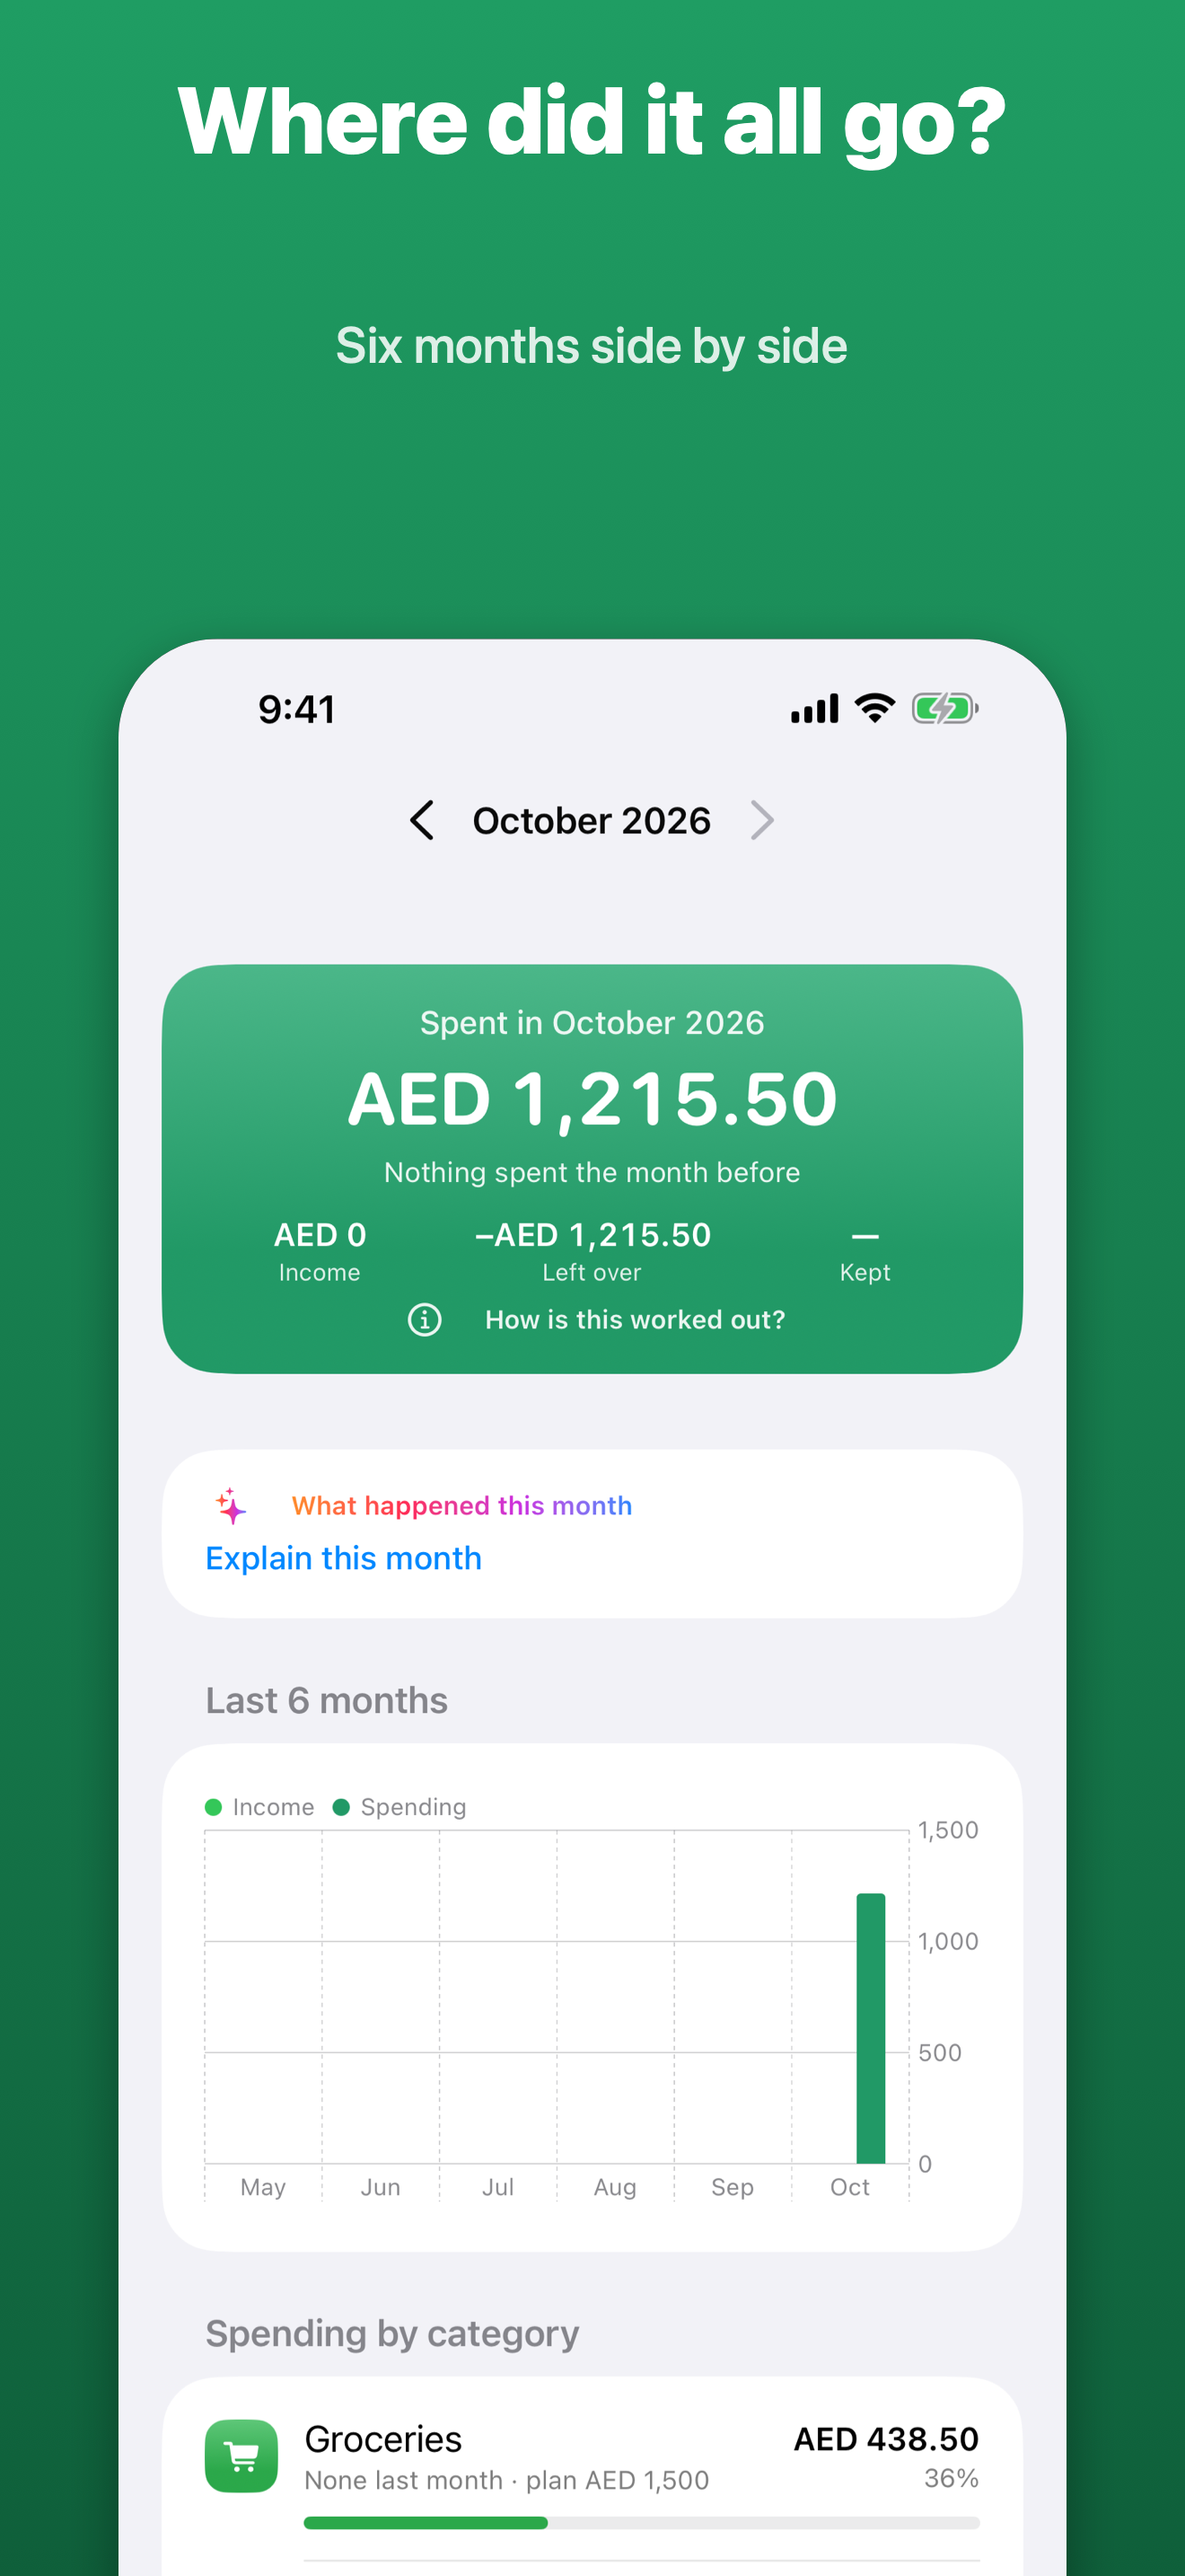
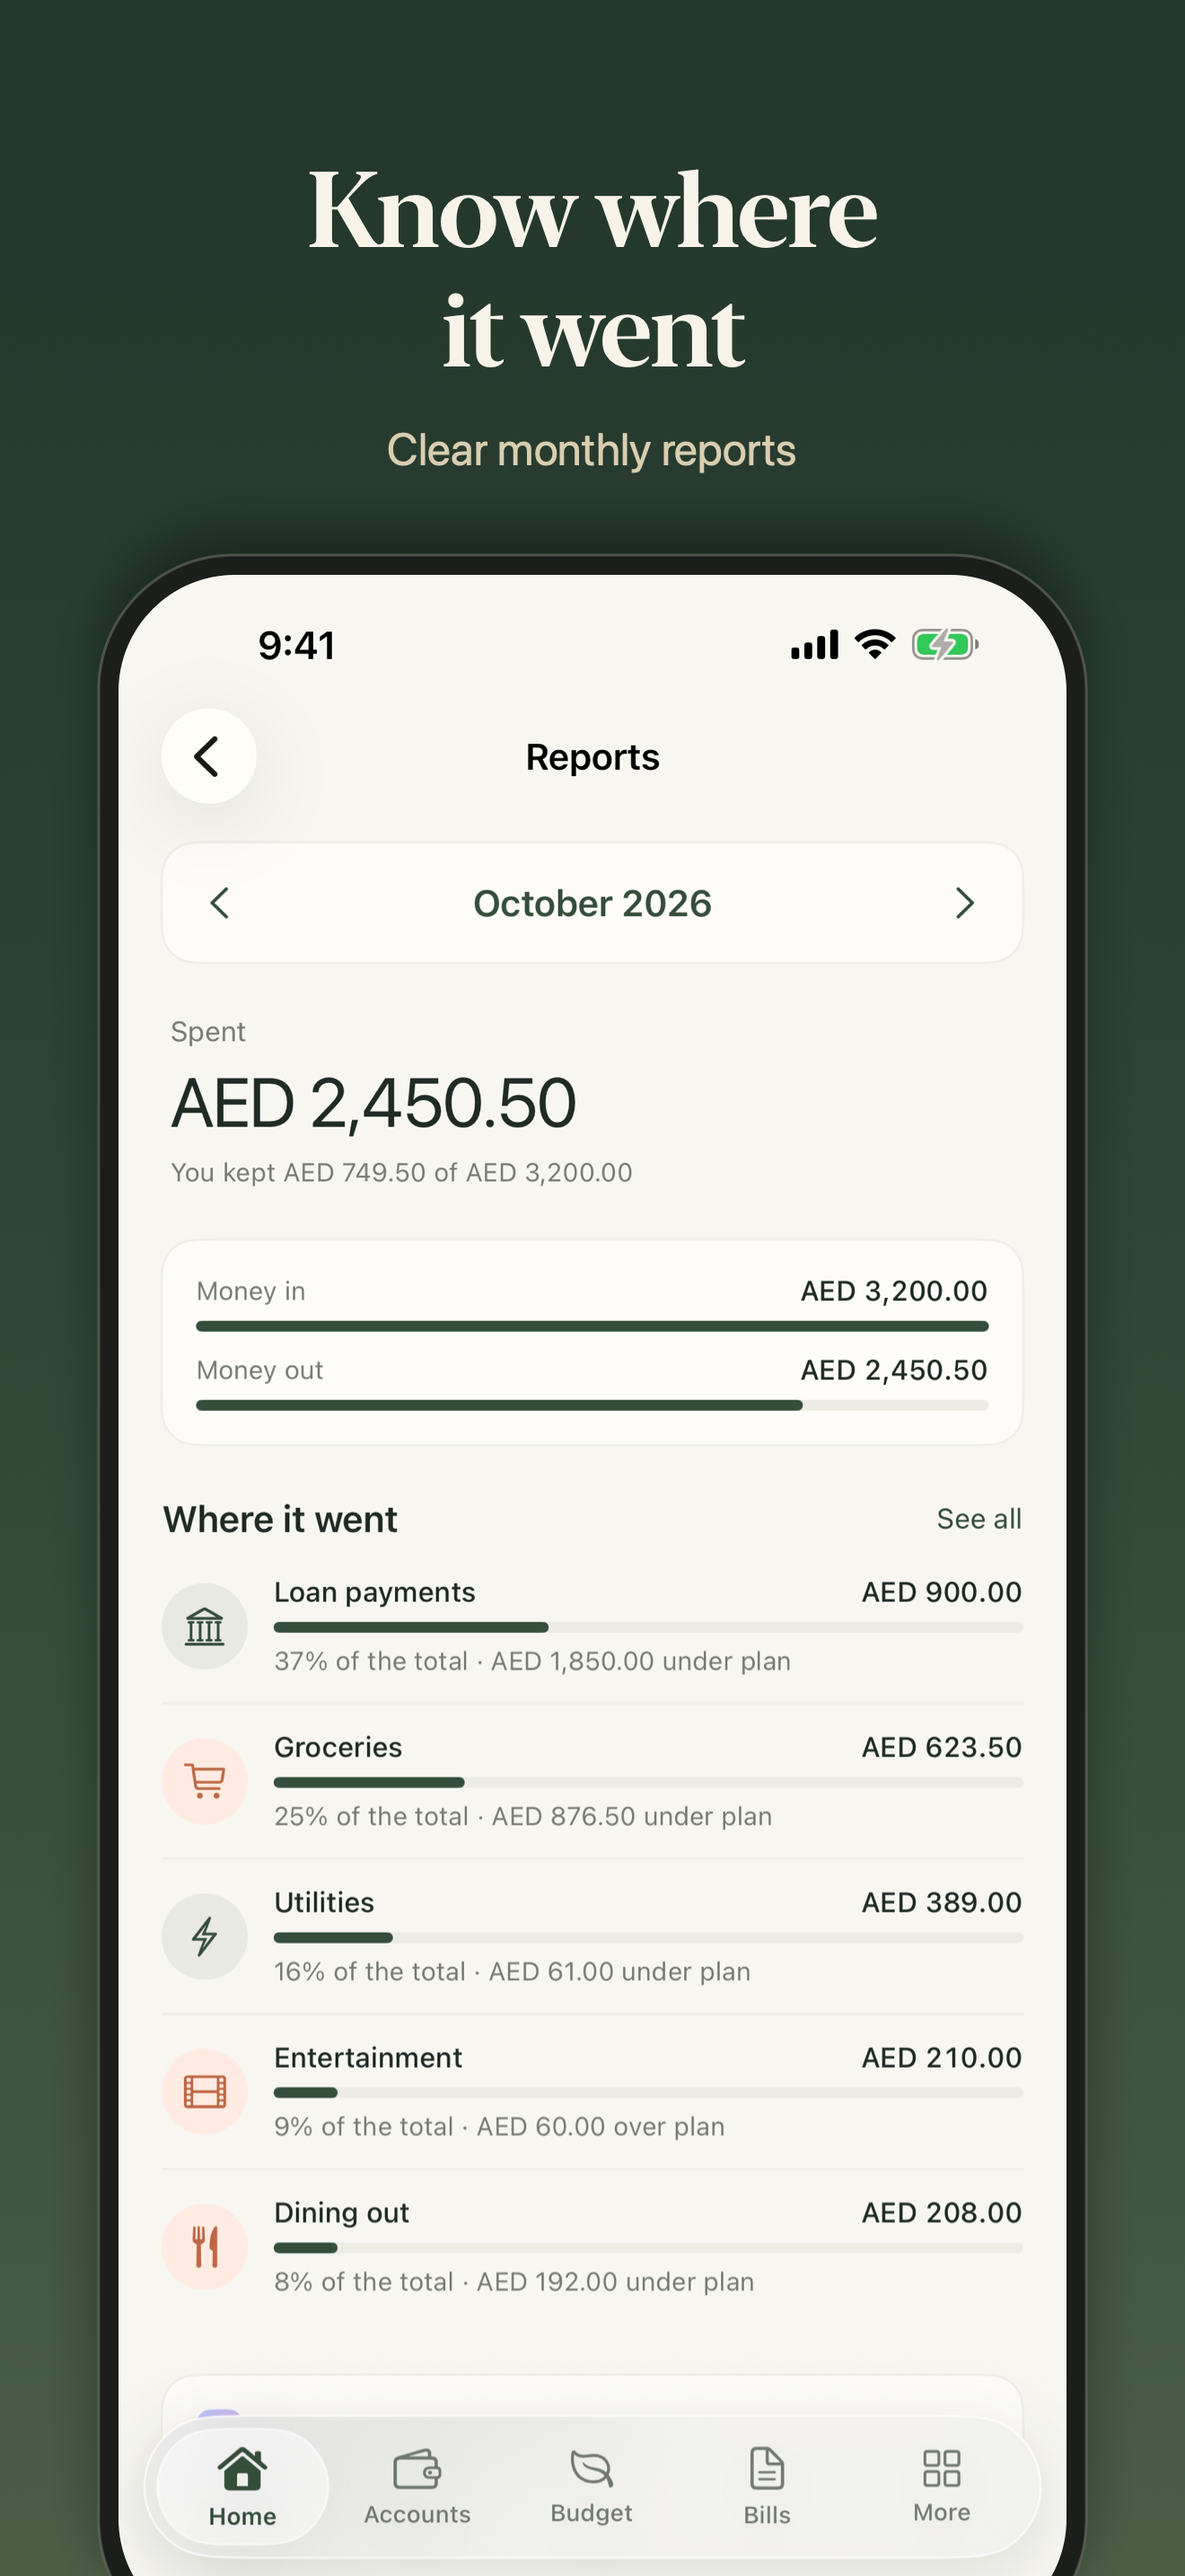
App Store screenshots for the new app
Eight 1320x2868 images in the app's green and ivory, framed by
AppStore/screenshots/frame.swift. A DEBUG -screenshots option adds side
income and two friends to the demo, and -screen person opens one.

A split bill now shows on each friend's page, not only in their balance.

diff --git a/AppStore/screenshots/frame.swift b/AppStore/screenshots/frame.swift
@@ -1,0 +1,66 @@
+import AppKit
+
+let shots = CommandLine.arguments[1], out = CommandLine.arguments[2]
+let W = 1320.0, H = 2868.0
+func color(_ hex: UInt32, _ a: CGFloat = 1) -> NSColor {
+    NSColor(srgbRed: CGFloat((hex >> 16) & 0xFF) / 255, green: CGFloat((hex >> 8) & 0xFF) / 255, blue: CGFloat(hex & 0xFF) / 255, alpha: a)
+}
+func serif(_ size: CGFloat) -> NSFont {
+    let base = NSFont.systemFont(ofSize: size, weight: .semibold)
+    return NSFont(descriptor: base.fontDescriptor.withDesign(.serif) ?? base.fontDescriptor, size: size) ?? base
+}
+let pages: [(String, String, String)] = [
+    ("home", "Know what's safe\nto spend", "After bills, savings and your budget"),
+    ("accounts", "Every account\nat a glance", "Cash, savings, cards and loans"),
+    ("budget", "Give your money\na plan", "Set a budget and see what's left"),
+    ("bills", "Never miss\na bill", "A reminder before each one is due"),
+    ("people", "Split bills\nwith friends", "See who owes you, and who you owe"),
+    ("forecast", "See the weeks\nahead", "Your balance, day by day"),
+    ("reports", "Know where\nit went", "Clear monthly reports"),
+    ("ask", "Ask about\nyour money", "Answers worked out on your iPhone"),
+]
+let statusStrip = NSImage(contentsOfFile: "\(shots)/home.png")!
+for (i, (name, title, subtitle)) in pages.enumerated() {
+    guard let shot = NSImage(contentsOfFile: "\(shots)/\(name).png") else { print("missing \(name)"); continue }
+    let rep = NSBitmapImageRep(bitmapDataPlanes: nil, pixelsWide: Int(W), pixelsHigh: Int(H), bitsPerSample: 8, samplesPerPixel: 4,
+                               hasAlpha: true, isPlanar: false, colorSpaceName: .deviceRGB, bytesPerRow: 0, bitsPerPixel: 0)!
+    let ctx = NSGraphicsContext(bitmapImageRep: rep)!
+    NSGraphicsContext.current = NSGraphicsContext(cgContext: ctx.cgContext, flipped: true)
+    let cg = ctx.cgContext
+    cg.translateBy(x: 0, y: H); cg.scaleBy(x: 1, y: -1)
+
+    // Deep green, a little lighter at the top
+    NSGradient(colors: [color(0x4A5E46), color(0x2F4636), color(0x22362B)])!.draw(in: NSRect(x: 0, y: 0, width: W, height: H), angle: -90)
+
+    let para = NSMutableParagraphStyle(); para.alignment = .center; para.lineHeightMultiple = 0.95
+    let t = NSAttributedString(string: title, attributes: [.font: serif(118), .foregroundColor: color(0xF7F3E8), .paragraphStyle: para, .kern: -1.5])
+    t.draw(with: NSRect(x: 60, y: 170, width: W - 120, height: 300), options: [.usesLineFragmentOrigin])
+    let sub = NSMutableParagraphStyle(); sub.alignment = .center
+    NSAttributedString(string: subtitle, attributes: [.font: NSFont.systemFont(ofSize: 50, weight: .regular), .foregroundColor: color(0xD9CDB0), .paragraphStyle: sub])
+        .draw(with: NSRect(x: 60, y: 470, width: W - 120, height: 80), options: [.usesLineFragmentOrigin])
+
+    // The phone: a graphite bezel round the screen, running off the bottom
+    let scale = 0.80, sw = W * scale, sh = H * scale, sx = (W - sw) / 2, sy = 640.0, bezel = 22.0
+    let body = NSBezierPath(roundedRect: NSRect(x: sx - bezel, y: sy - bezel, width: sw + bezel * 2, height: sh + bezel * 2), xRadius: 150, yRadius: 150)
+    NSGraphicsContext.current?.saveGraphicsState()
+    let shadow = NSShadow(); shadow.shadowColor = color(0x000000, 0.35); shadow.shadowBlurRadius = 60; shadow.shadowOffset = NSSize(width: 0, height: 30)
+    shadow.set(); color(0x1B1E1A).setFill(); body.fill()
+    NSGraphicsContext.current?.restoreGraphicsState()
+    color(0x6B6F66, 0.6).setStroke(); body.lineWidth = 3; body.stroke()
+    NSGraphicsContext.current?.saveGraphicsState()
+    let screen = NSRect(x: sx, y: sy, width: sw, height: sh)
+    NSBezierPath(roundedRect: screen, xRadius: 130, yRadius: 130).addClip()
+    shot.draw(in: screen, from: .zero, operation: .copy, fraction: 1, respectFlipped: true, hints: nil)
+    if name == "people" {
+        // Scrolled content sits under the status bar; put the plain one back
+        let strip = 190.0
+        statusStrip.draw(in: NSRect(x: sx, y: sy, width: sw, height: strip * scale),
+                         from: NSRect(x: 0, y: H - strip, width: W, height: strip), operation: .copy, fraction: 1, respectFlipped: true, hints: nil)
+    }
+    NSGraphicsContext.current?.restoreGraphicsState()
+
+    NSGraphicsContext.current = nil
+    let file = "\(out)/\(String(format: "%02d", i + 1))-\(name).png"
+    try! rep.representation(using: .png, properties: [:])!.write(to: URL(fileURLWithPath: file))
+    print(file)
+}

diff --git a/PersonalFinanceApp/App/DemoData.swift b/PersonalFinanceApp/App/DemoData.swift
@@ -69,7 +69,23 @@ enum DemoData {
         try? store.saveReserve(Reserve(name: "Emergency fund", amount: aed(2000), accountId: current.id))
         try? store.saveReserve(Reserve(name: "Japan trip", amount: aed(6000), accountId: savings.id, target: aed(15000),
                                        targetDate: store.calendar.date(byAdding: .month, value: 7, to: day(0))))
+        if CommandLine.arguments.contains("-screenshots") { screenshotExtras(store, current: current, card: card, cat: cat, day: day, aed: aed) }
         try? store.updateSettings { $0.bufferMinor = 50000; $0.onboardingDone = true; $0.onboardingStep = 4; $0.lastBackupAt = today }
+    }
+
+    /// For App Store screenshots: a little side income so safe to spend has room, and friends who owe money
+    private static func screenshotExtras(_ store: LedgerStore, current: LedgerAccountRecord, card: LedgerAccountRecord,
+                                         cat: (String) -> AccountInfo, day: (Int) -> Date, aed: (Decimal) -> Money) {
+        if let e = try? EntryFactory.income(aed(3200), to: current.info, category: cat("Other income"), date: day(-1), memo: "Design project") {
+            _ = try? store.post(e)
+        }
+        guard let sam = try? store.lentAccount(named: "Sam"), let maya = try? store.lentAccount(named: "Maya") else { return }
+        if let dinner = try? EntryFactory.splitExpense(aed(450), from: card.info, category: cat("Dining out"),
+                                                       shares: [(sam.info, aed(150)), (maya.info, aed(150))],
+                                                       date: day(-1), memo: "Dinner at Zuma") {
+            _ = try? store.post(dinner)
+        }
+        _ = try? store.lend(aed(500), to: maya.id, from: current.id, date: day(-8), memo: "Concert tickets")
     }
 }
 #endif

diff --git a/PersonalFinanceApp/Redesign/RedesignFlows.swift b/PersonalFinanceApp/Redesign/RedesignFlows.swift
@@ -669,7 +669,7 @@ extension Redesign {
 #if DEBUG
 extension Redesign {
     /// Screenshot helpers: -tab budget|accounts|bills|more|activity|reports and
-    /// -screen forecast|reports|payday|choose|guide|capture|settings|add [-addKind income]|ask|debtpay|loan|paywall|import
+    /// -screen forecast|reports|payday|choose|guide|capture|settings|add [-addKind income]|ask|debtpay|loan|paywall|import|person
     enum DebugScreens {
         @MainActor static func open(in app: AppModel) {
             let defaults = UserDefaults.standard
@@ -697,6 +697,8 @@ extension Redesign {
             case "paywall": app.open(.paywall(.statementImport))
             case "debtpay":
                 if let paid = s.entryRecords.first(where: { $0.kind == .debtPayment && $0.status == .posted }) { app.open(.transaction(paid.id)) }
+            case "person":
+                if let person = s.accountRecords.first(where: { $0.kind == .lent && $0.name == "Maya" }) { app.open(.account(person.id)) }
             case "import":
                 if let account = s.accounts.first(where: \.spendable) { app.open(.importStatement(account.id)) }
             default: break

diff --git a/PersonalFinanceApp/Redesign/RedesignModel.swift b/PersonalFinanceApp/Redesign/RedesignModel.swift
@@ -406,7 +406,9 @@ extension Redesign {
         func item(_ id: UUID?) -> PlannedItem? { snapshot.items.first { $0.id == id } }
 
         func transactions(touching accountId: UUID) -> [Transaction] {
-            transactions.filter { $0.accountId == accountId || $0.destinationId == accountId }
+            // Any line counts, so a person's share of a split bill shows on their page
+            let posted = Set(snapshot.ledger.runningBalance(of: accountId).map(\.entry.id))
+            return transactions.filter { $0.accountId == accountId || $0.destinationId == accountId || posted.contains($0.id) }
         }
 
         private func transaction(_ record: EntryRecord, in s: FinanceSnapshot) -> Transaction {
